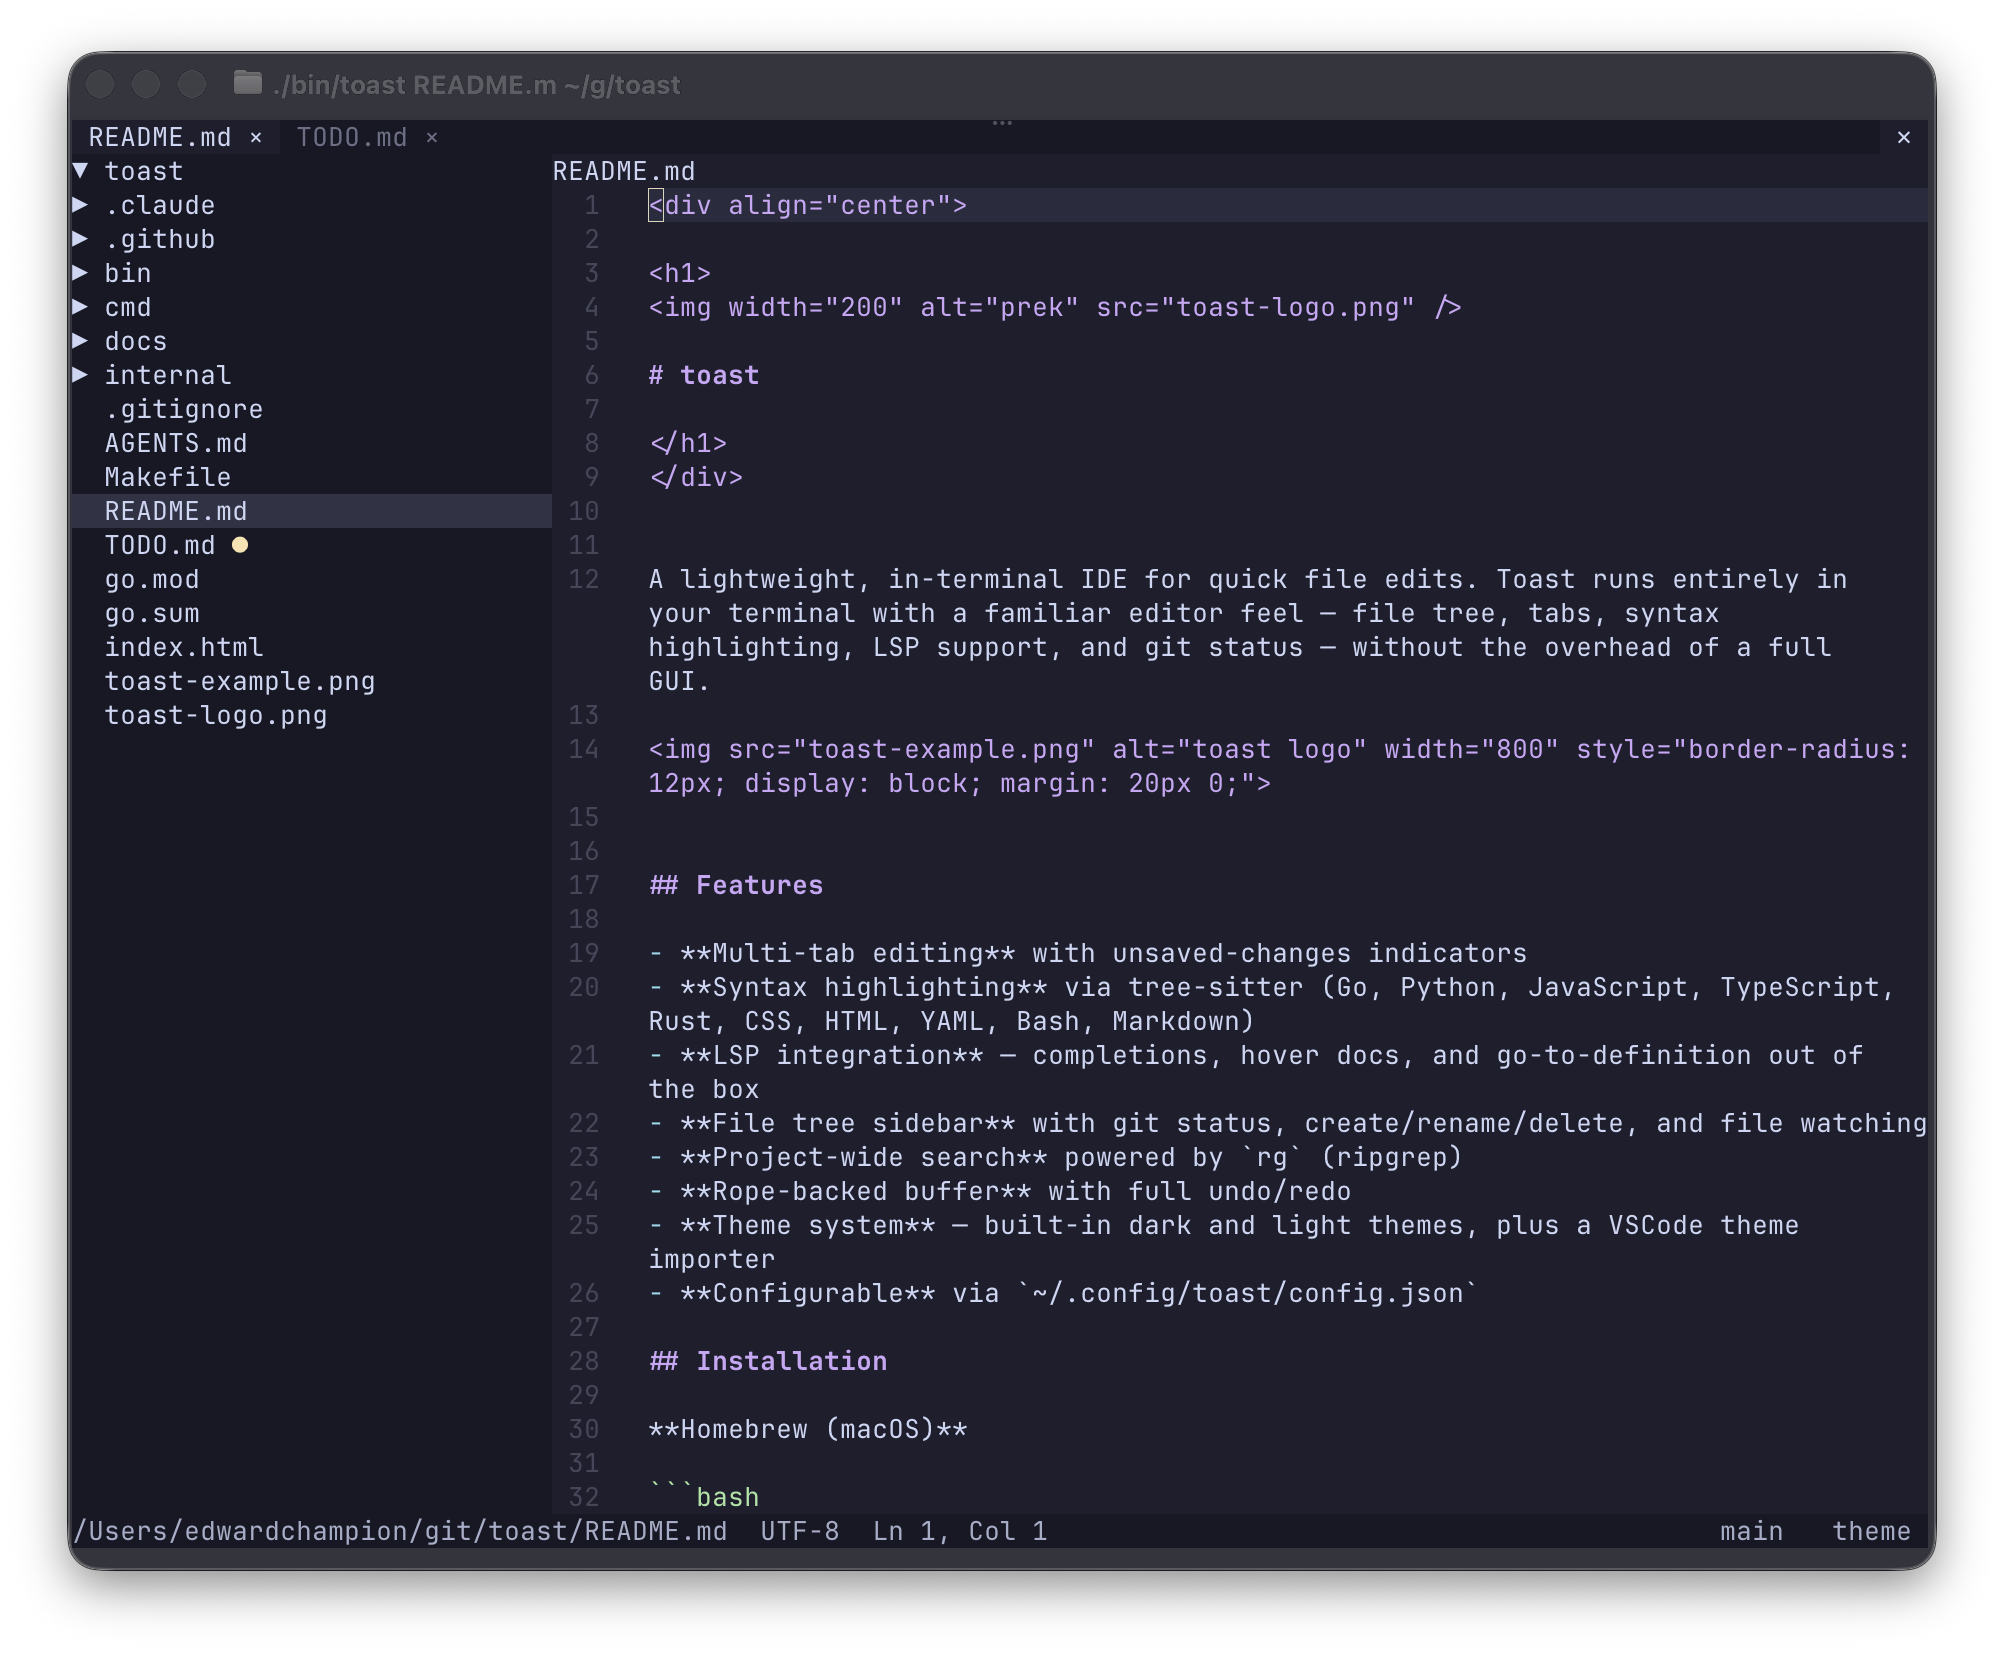
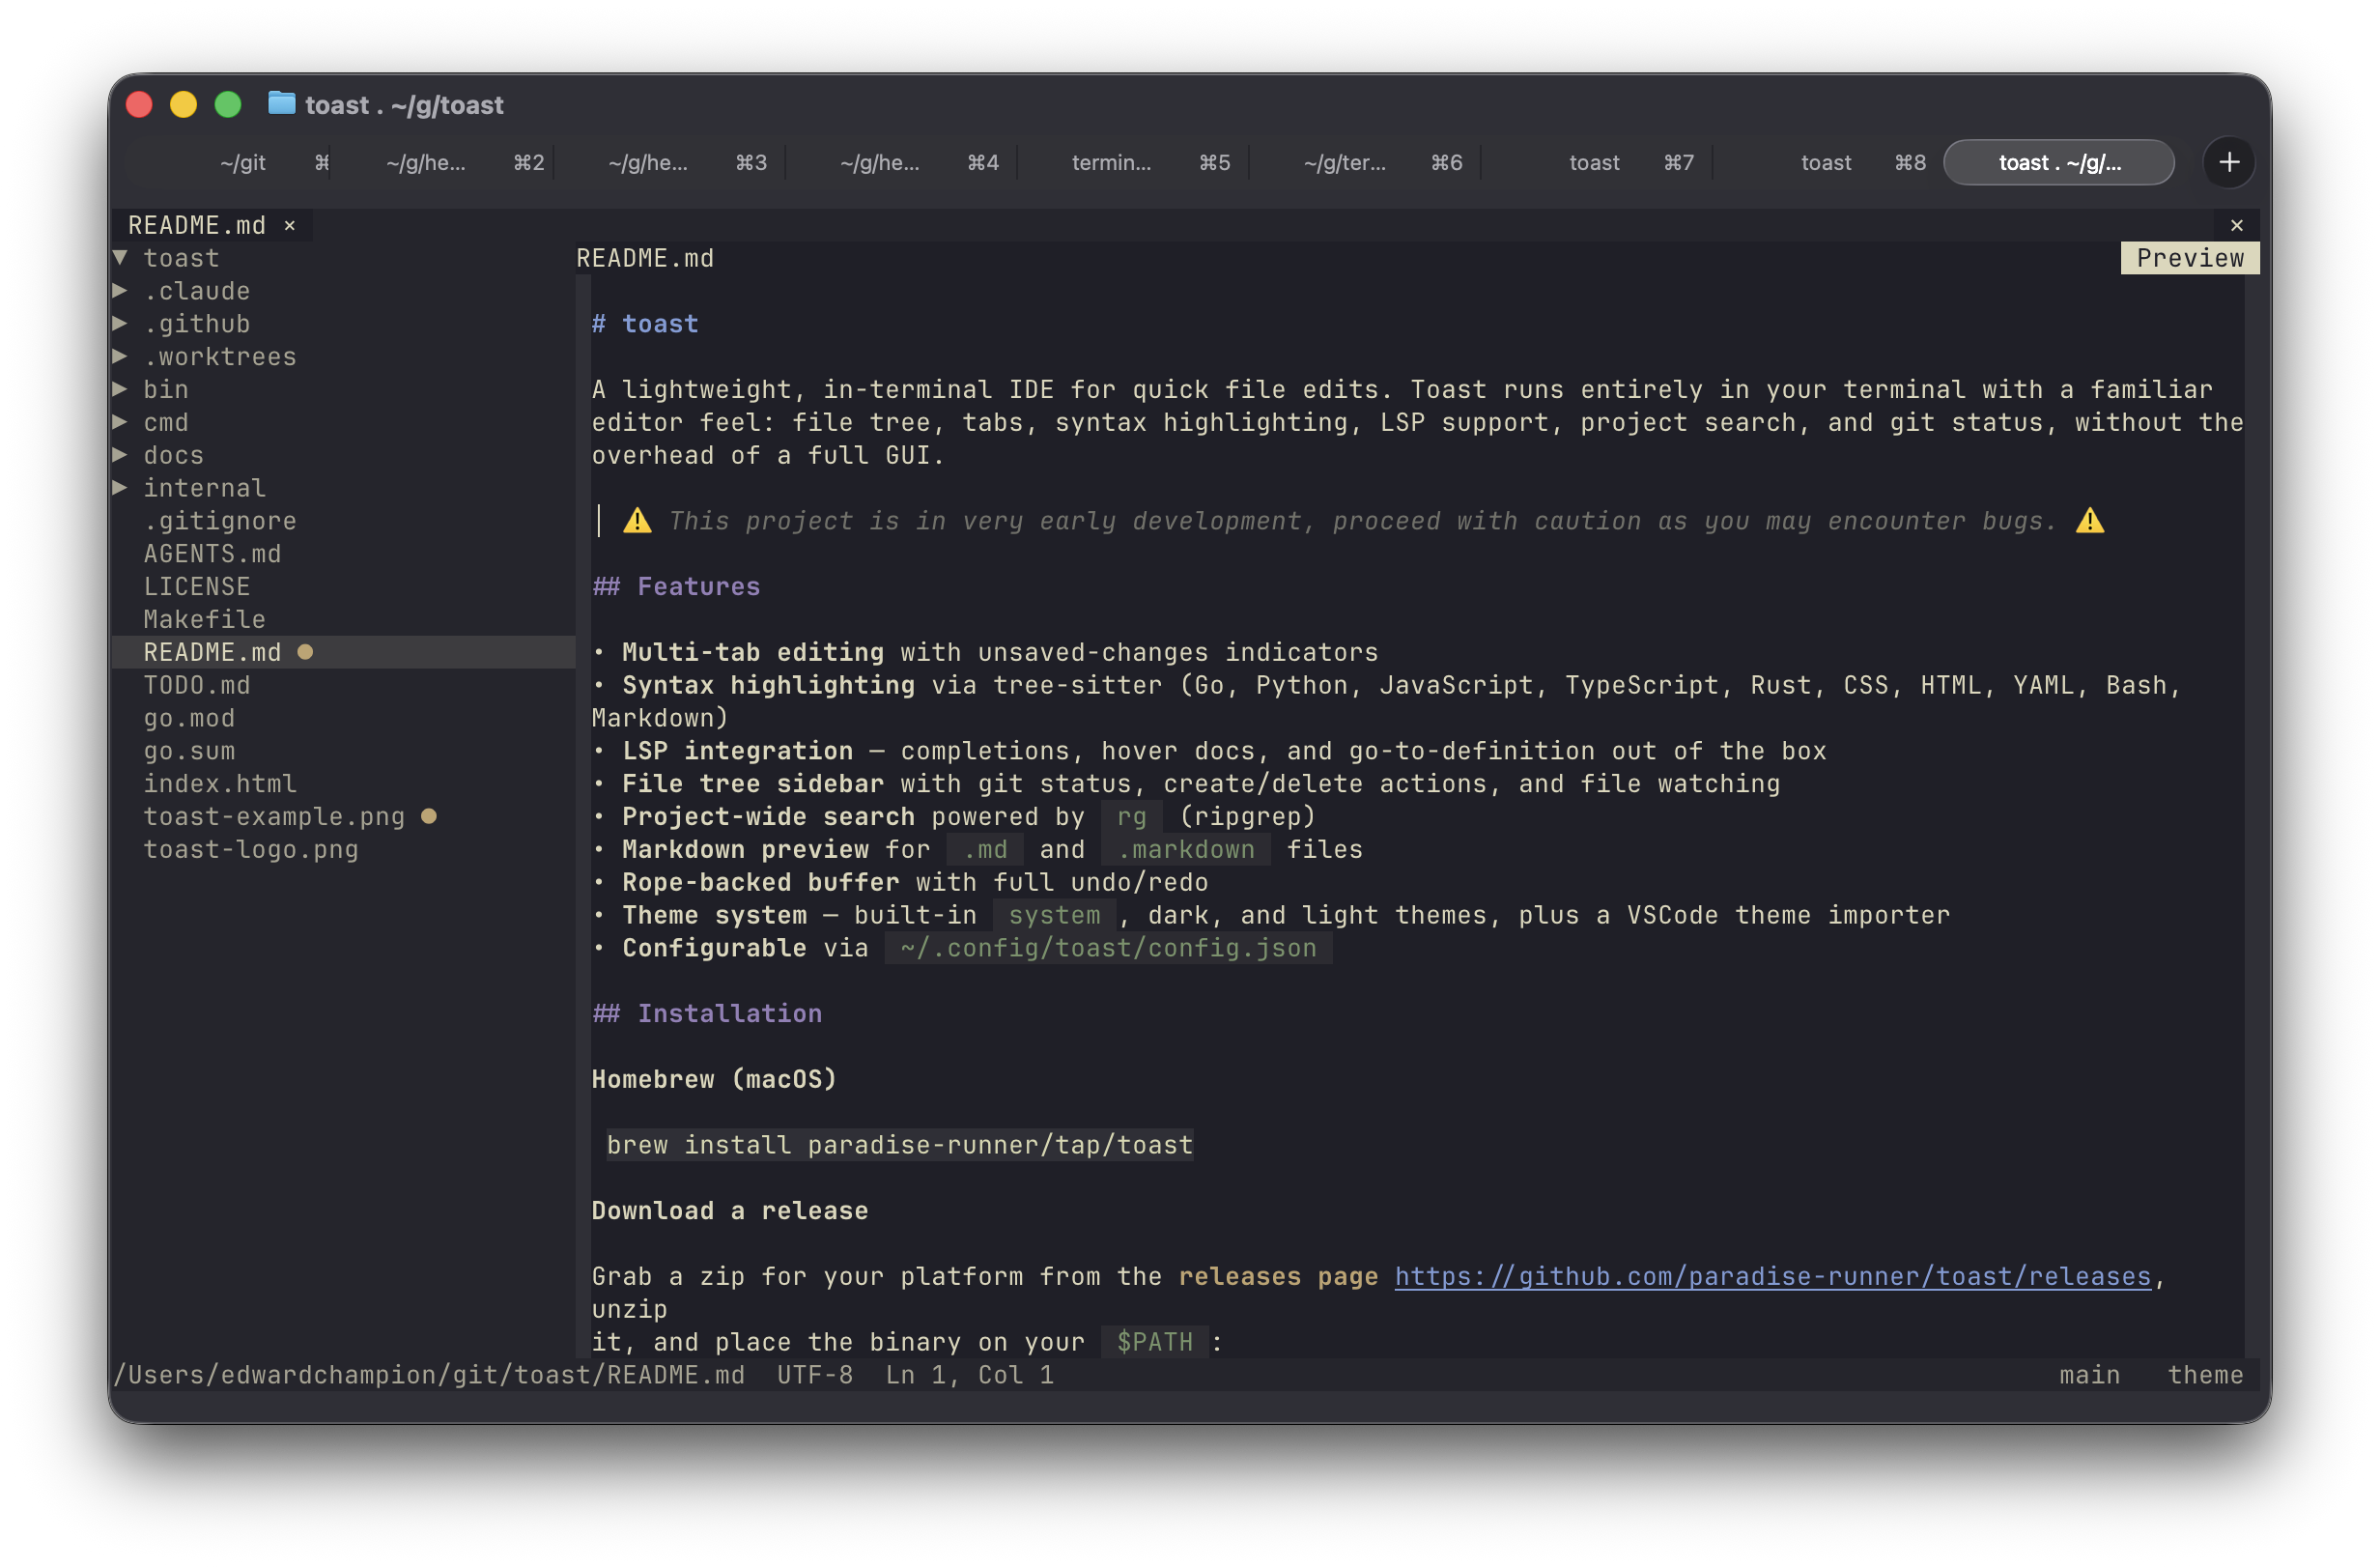
updated readme and sample image

diff --git a/README.md b/README.md
@@ -10,7 +10,7 @@
 </div>
 
 
-A lightweight, in-terminal IDE for quick file edits. Toast runs entirely in your terminal with a familiar editor feel — file tree, tabs, syntax highlighting, LSP support, and git status — without the overhead of a full GUI.
+A lightweight, in-terminal IDE for quick file edits. Toast runs entirely in your terminal with a familiar editor feel: file tree, tabs, syntax highlighting, LSP support, project search, and git status, without the overhead of a full GUI.
 
 > ⚠️ This project is in _very early development_, proceed with caution as you may encounter bugs. ⚠️ 
 
@@ -22,10 +22,11 @@ A lightweight, in-terminal IDE for quick file edits. Toast runs entirely in your
 - **Multi-tab editing** with unsaved-changes indicators
 - **Syntax highlighting** via tree-sitter (Go, Python, JavaScript, TypeScript, Rust, CSS, HTML, YAML, Bash, Markdown)
 - **LSP integration** — completions, hover docs, and go-to-definition out of the box
-- **File tree sidebar** with git status, create/rename/delete, and file watching
+- **File tree sidebar** with git status, create/delete actions, and file watching
 - **Project-wide search** powered by `rg` (ripgrep)
+- **Markdown preview** for `.md` and `.markdown` files
 - **Rope-backed buffer** with full undo/redo
-- **Theme system** — built-in dark and light themes, plus a VSCode theme importer
+- **Theme system** — built-in `system`, dark, and light themes, plus a VSCode theme importer
 - **Configurable** via `~/.config/toast/config.json`
 
 ## Installation
@@ -49,7 +50,7 @@ install -m755 toast-darwin-arm64 /usr/local/bin/toast
 
 **Build from source**
 
-Requires Go 1.25+.
+Requires Go 1.25.2+.
 
 ```bash
 git clone https://github.com/paradise-runner/toast
@@ -64,7 +65,12 @@ make build
 toast               # open current directory
 toast path/to/dir   # open a specific directory
 toast path/to/file  # open a file (auto-detects git root)
+toast new/file.go   # open a new file buffer if the parent directory exists
+toast --help
+toast --version
 ```
+
+`rg` is required for project search. Language servers such as `gopls`, `pyright-langserver`, `typescript-language-server`, and `rust-analyzer` are optional and enable LSP features when installed.
 
 ## Keybindings
 
@@ -72,18 +78,21 @@ toast path/to/file  # open a file (auto-detects git root)
 |-----|--------|
 | `Ctrl+Q` | Quit |
 | `Ctrl+S` / `Cmd+S` | Save |
-| `Ctrl+N` / `Cmd+N` | New file |
 | `Ctrl+W` / `Cmd+W` | Close tab |
 | `Ctrl+Tab` | Next tab |
 | `Ctrl+Shift+Tab` | Previous tab |
 | `Ctrl+B` | Toggle sidebar |
+| `Ctrl+Shift+E` | Toggle focus between editor and file tree |
 | `Ctrl+Shift+F` | Search |
 | `Ctrl+G` / `Cmd+L` | Go to line |
+| `Ctrl+Shift+M` | Toggle Markdown preview |
 | `Ctrl+Z` / `Cmd+Z` | Undo |
-| `Ctrl+Y` / `Ctrl+Shift+Z` | Redo |
-| `Ctrl+Space` | Trigger completion |
+| `Ctrl+Y` / `Ctrl+Shift+Z` / `Cmd+Y` / `Cmd+Shift+Z` | Redo |
+| `Ctrl+Space` / `Cmd+Space` | Trigger completion |
 | `Ctrl+Shift+K` | Show hover |
 | `F12` | Go to definition |
+
+File-tree create/delete actions and theme selection are currently driven from the UI: right-click in the sidebar for file operations, and use the `theme` button in the status bar to open the theme picker.
 
 ## Configuration
 
@@ -121,7 +130,7 @@ Toast reads `~/.config/toast/config.json` on startup. Missing keys fall back to 
 
 ### Themes
 
-Built-in themes: `toast-dark`, `toast-light`. Custom themes live in `~/.config/toast/themes/`.
+Built-in themes: `system`, `toast-dark`, `toast-light`. Custom themes live in `~/.config/toast/themes/`.
 
 **Import a VSCode theme:**
 